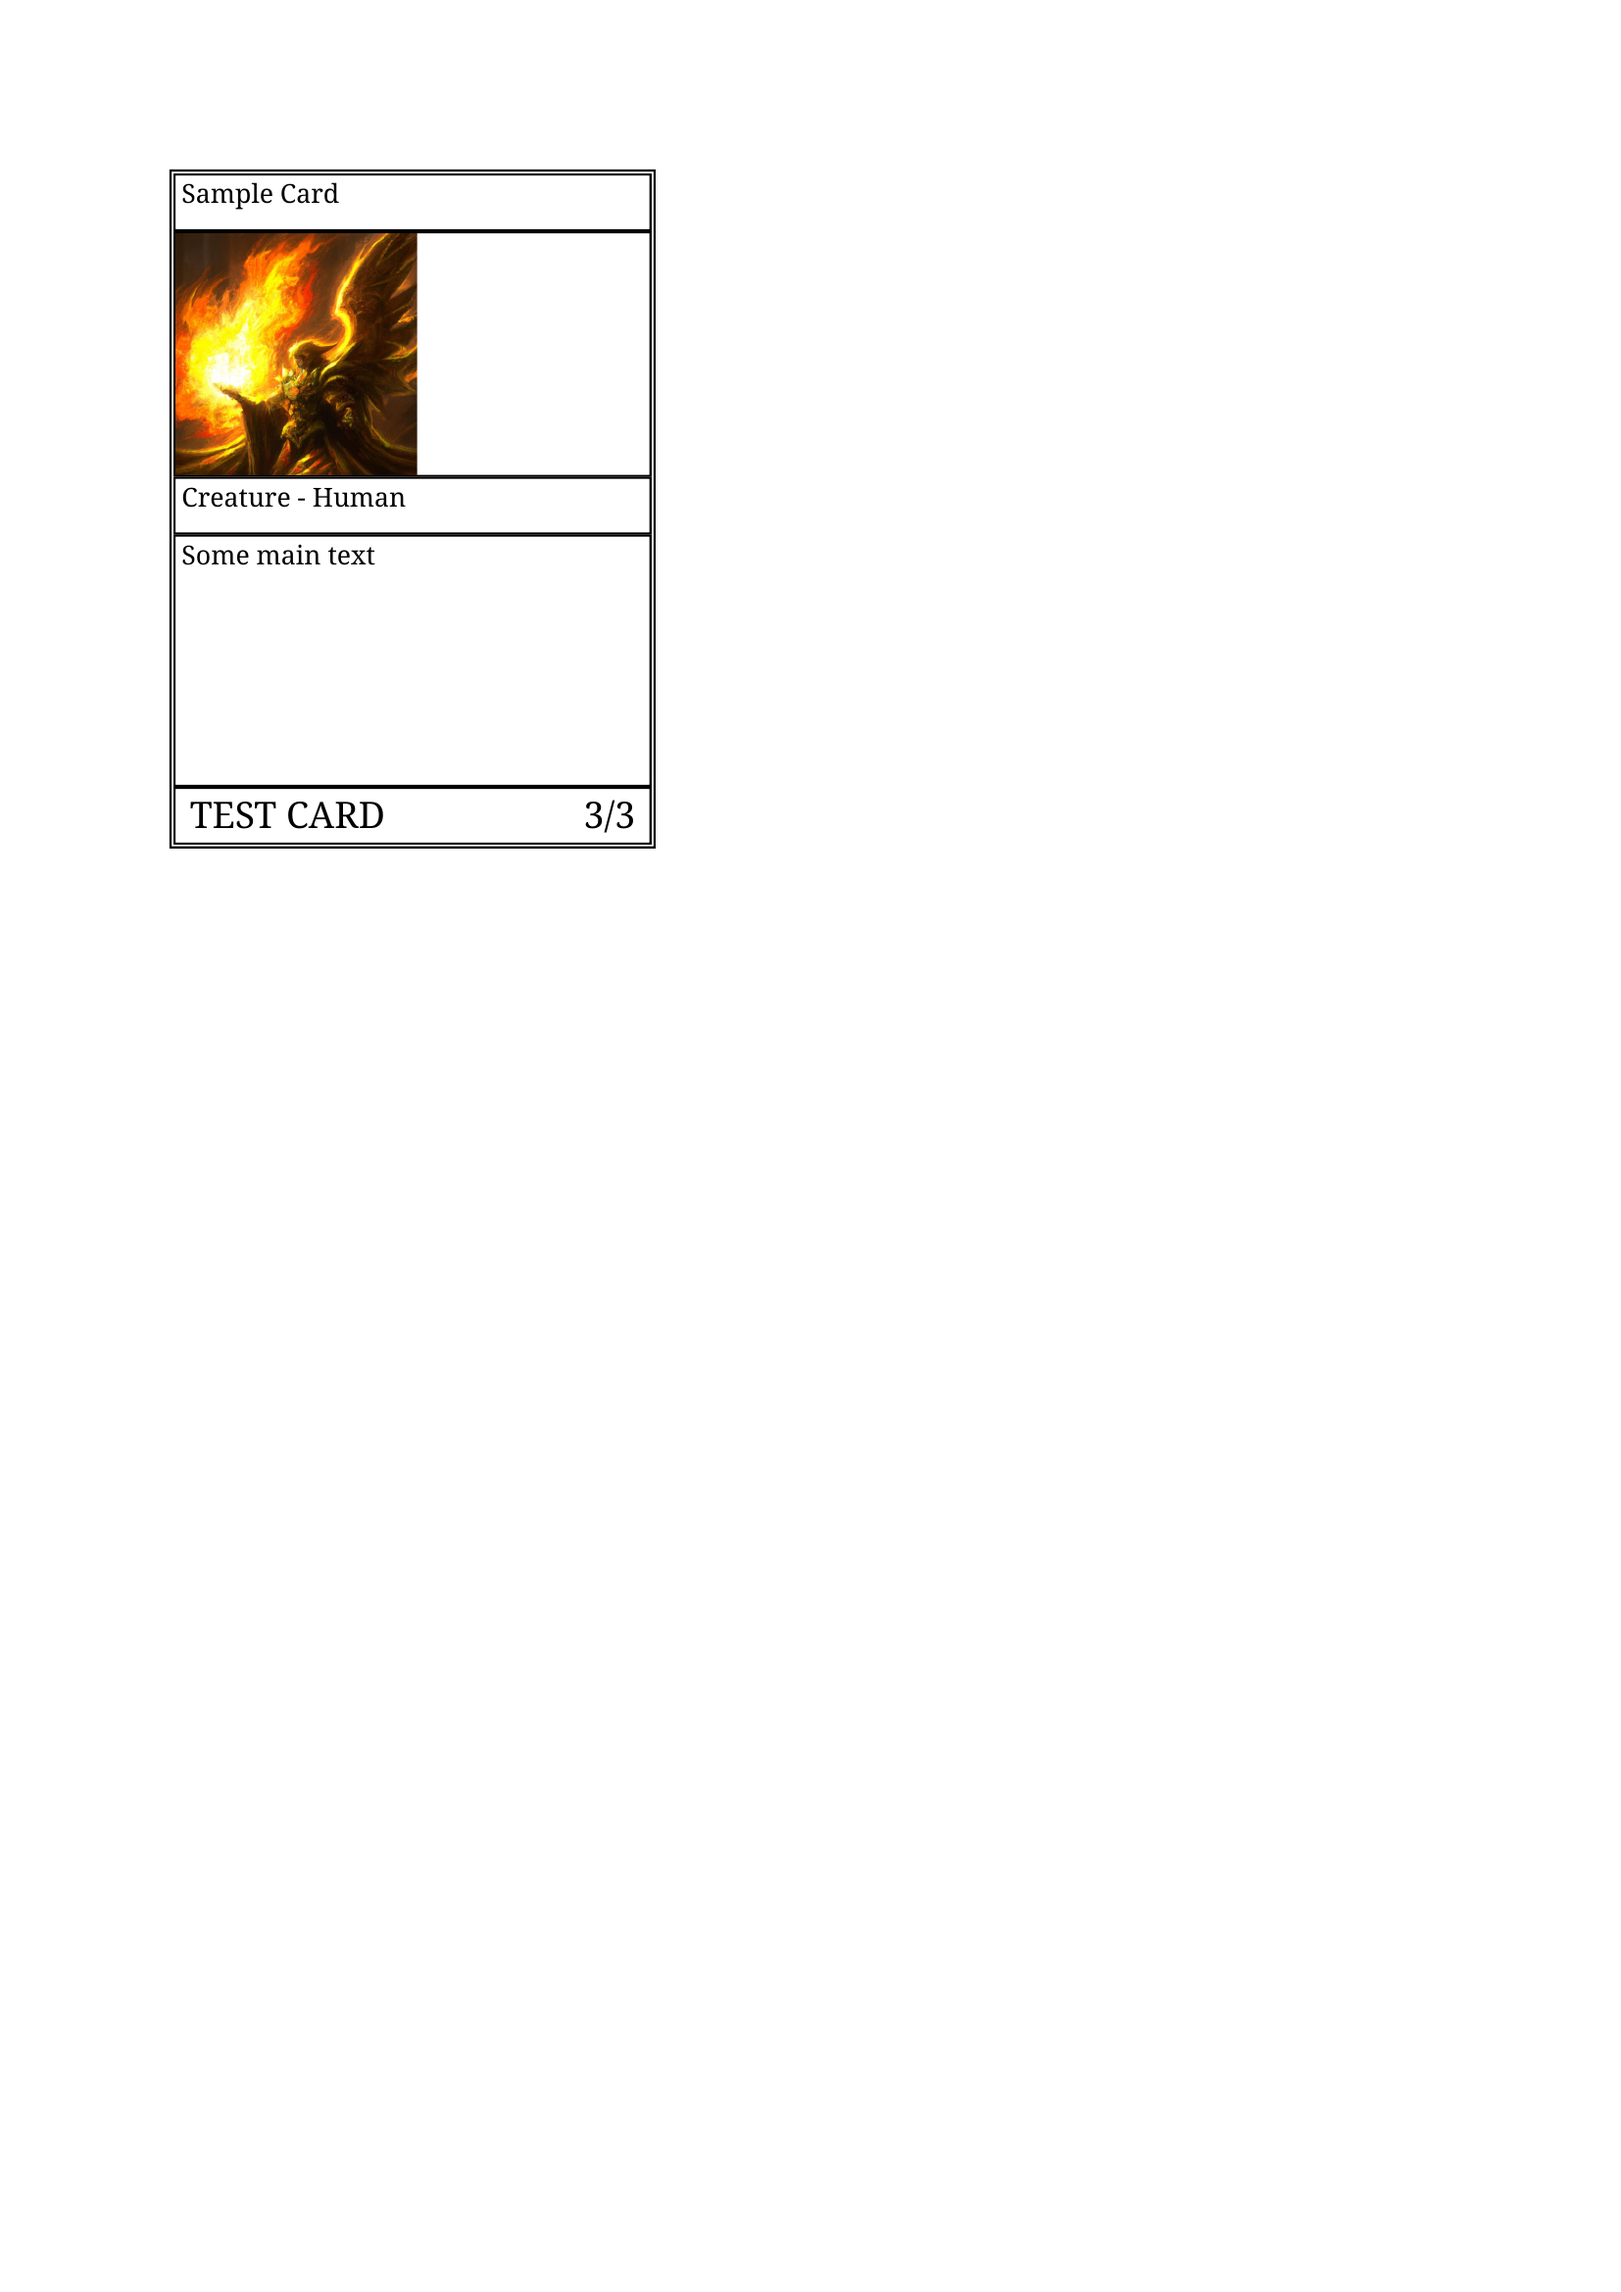
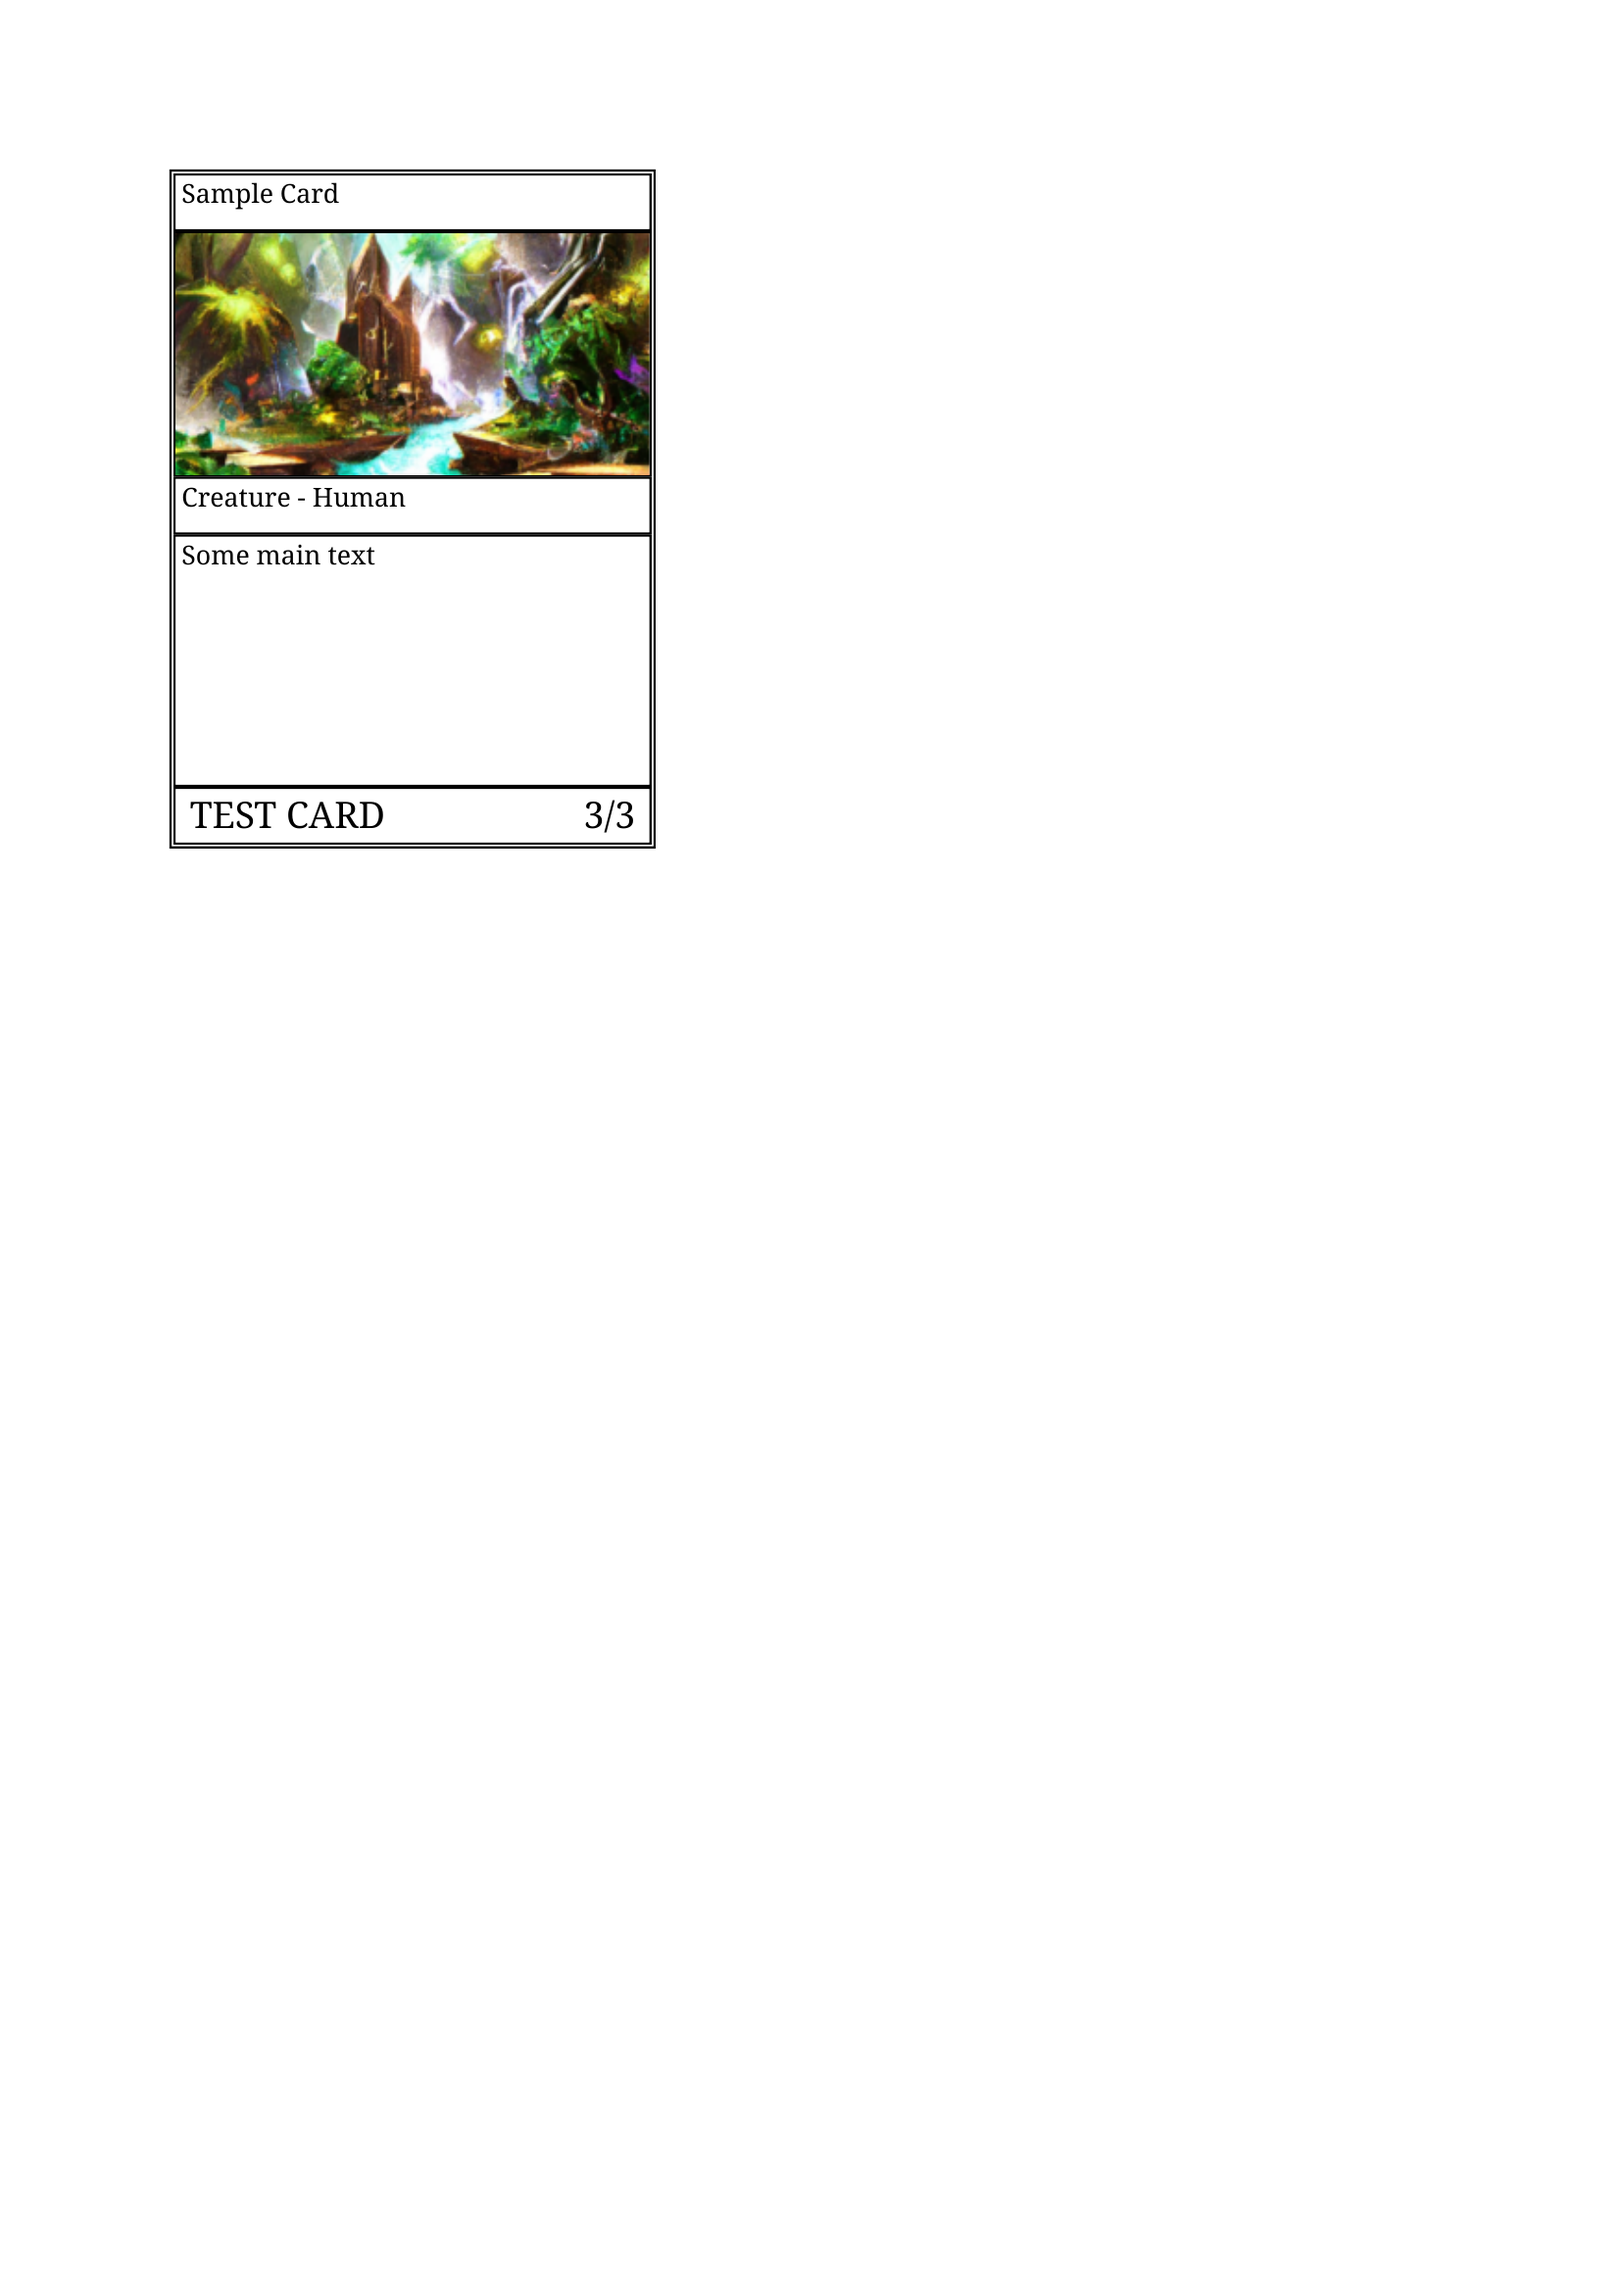
Fill in the image section

Changed region(s): [[0.0925, 0.0936, 0.4008, 0.2185]]

diff --git a/test.html b/test.html
@@ -27,10 +27,12 @@
             .image-container {
                 border: 1px solid black;
                 height: 36%;  /* Adjust this value as necessary */
+                object-fit: fill;
             }
             .image-container img {
-                max-width: 100%;
-                max-height: 100%;
+                width: 100%;
+                height: 100%;
+                object-fit: cover;  /* Or "fill" */
             }
             .main-text {
                 border: 1px solid black;
@@ -46,7 +48,7 @@
                 <span><img src="/home/keenan/Dev/mtgrandom/images/mana1.png" /></span>
             </div>
             <div class="image-container">
-                <img src="/home/keenan/Dev/mtgrandom/images/Blaze of Glory.png" />
+                <img src="/home/keenan/Dev/mtgrandom/images/Mystic Oasis.png" />
             </div>
             <div class="type">Creature - Human</div>
             <div class="main-text">Some main text</div>

diff --git a/render_full_card.py b/render_full_card.py
@@ -44,10 +44,12 @@ def create_magic_card(card):
             .image-container {
                 border: 1px solid black;
                 height: 36%;  /* Adjust this value as necessary */
+                object-fit: fill;
             }
             .image-container img {
-                max-width: 100%;
-                max-height: 100%;
+                width: 100%;
+                height: 100%;
+                object-fit: cover;  /* Or "fill" */
             }
             .main-text {
                 border: 1px solid black;
@@ -121,7 +123,7 @@ if __name__ == "__main__":
     card = {
         "name": "Sample Card",
         "mana_cost": os.path.join(images_dir, "mana1.png"),
-        "image": os.path.join(images_dir, "Blaze of Glory.png"),
+        "image": os.path.join(images_dir, "Mystic Oasis.png"),
         "type": "Creature - Human",
         "main_text": "Some main text",
         "power_toughness": "3/3",
